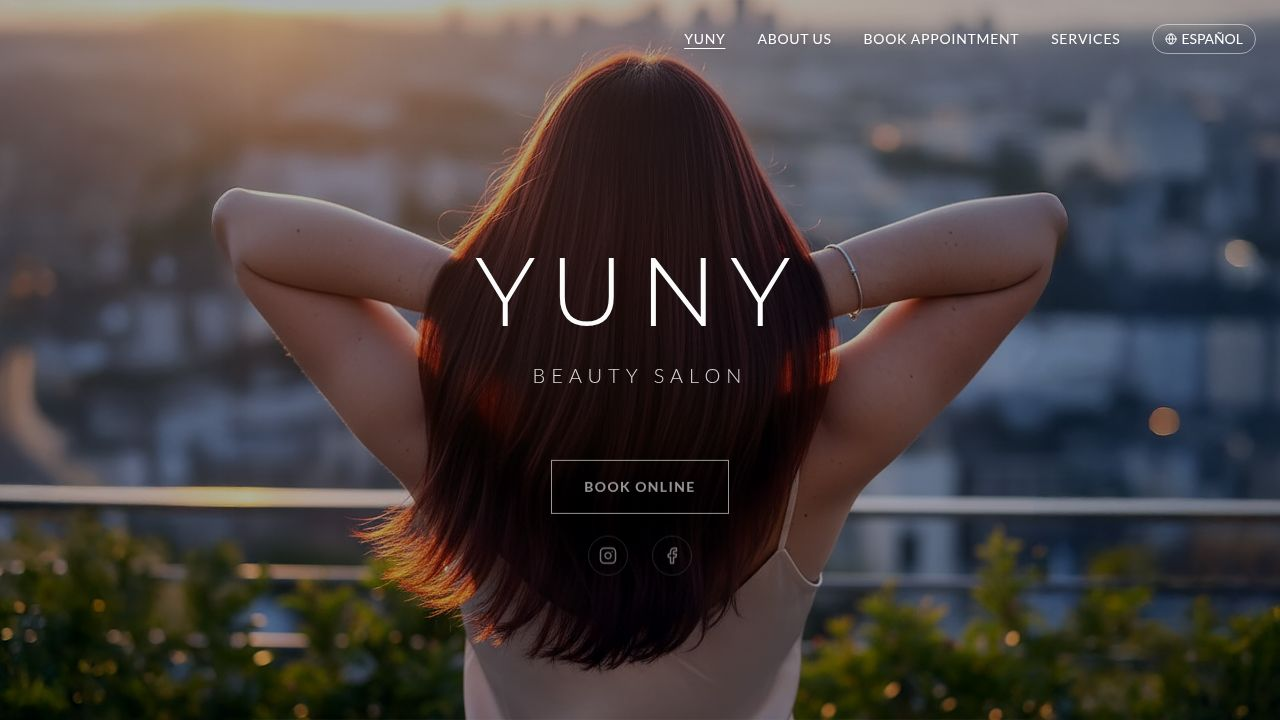
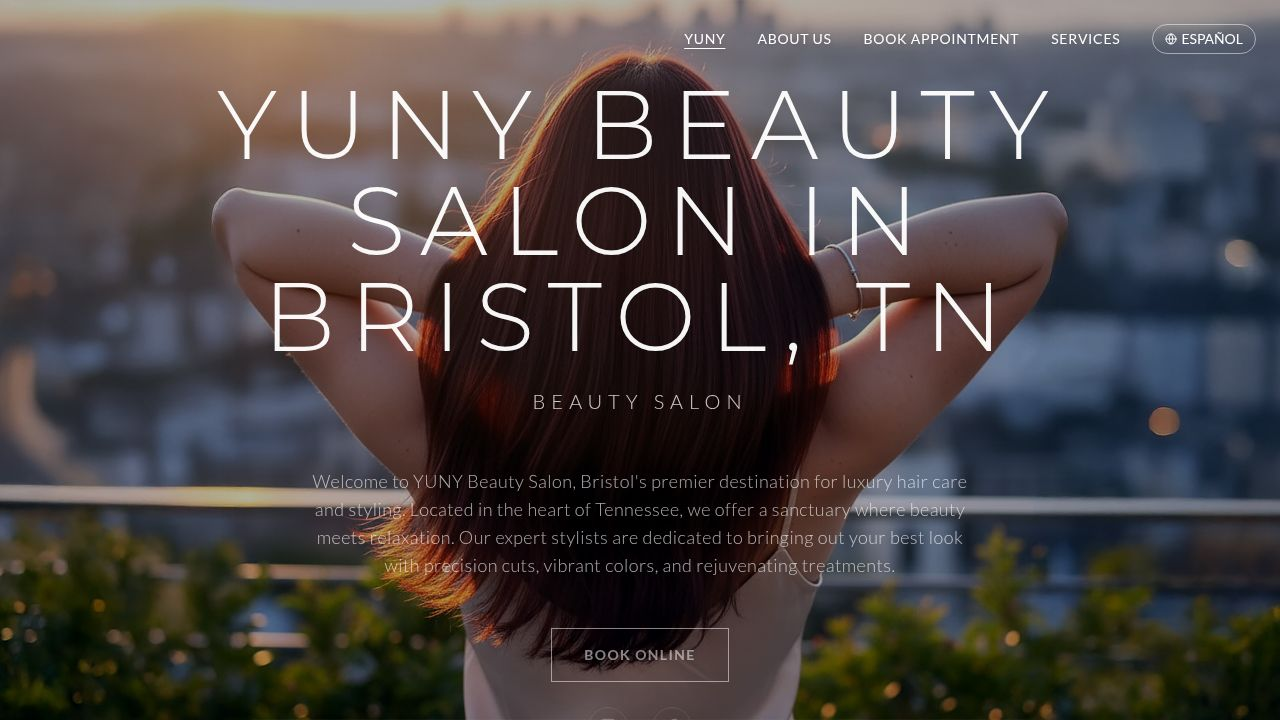
Make only the "About Us" title clickable on the homepage
Modify client/src/pages/home.tsx to change the About Us section's link behavior, ensuring only the title is clickable and adding a hover effect.

Replit-Commit-Author: Agent
Replit-Commit-Session-Id: 6106e1d0-68c3-4363-a874-a7e4ffc63db2
Replit-Commit-Checkpoint-Type: full_checkpoint
Replit-Commit-Event-Id: b141c052-86ab-48ff-a546-608980b735c0
Replit-Commit-Screenshot-Url: https://storage.googleapis.com/screenshot-production-us-central1/2a9643ae-9906-464c-bd92-5194da8bb35d/6106e1d0-68c3-4363-a874-a7e4ffc63db2/OPMswul
Replit-Helium-Checkpoint-Created: true

diff --git a/client/src/pages/home.tsx b/client/src/pages/home.tsx
@@ -161,14 +161,14 @@ export default function Home() {
       {/* About Summary Section */}
       <section className="py-24 bg-white text-black">
         <div className="container mx-auto px-6 max-w-4xl text-center">
-          <Link href="/about" className="cursor-pointer group">
-            <h2 className="text-3xl md:text-4xl font-light tracking-widest mb-8 uppercase group-hover:opacity-70 transition-opacity">
+          <Link href="/about" className="cursor-pointer group inline-block">
+            <h2 className="text-3xl md:text-4xl font-light tracking-widest mb-8 uppercase group-hover:opacity-70 transition-opacity border-b-2 border-transparent group-hover:border-black pb-1">
               {t.aboutTitle}
             </h2>
-            <p className="text-lg md:text-xl font-light leading-relaxed mb-12 opacity-80 group-hover:opacity-100 transition-opacity">
-              {t.aboutText}
-            </p>
           </Link>
+          <p className="text-lg md:text-xl font-light leading-relaxed mb-12 opacity-80">
+            {t.aboutText}
+          </p>
         </div>
       </section>
 
